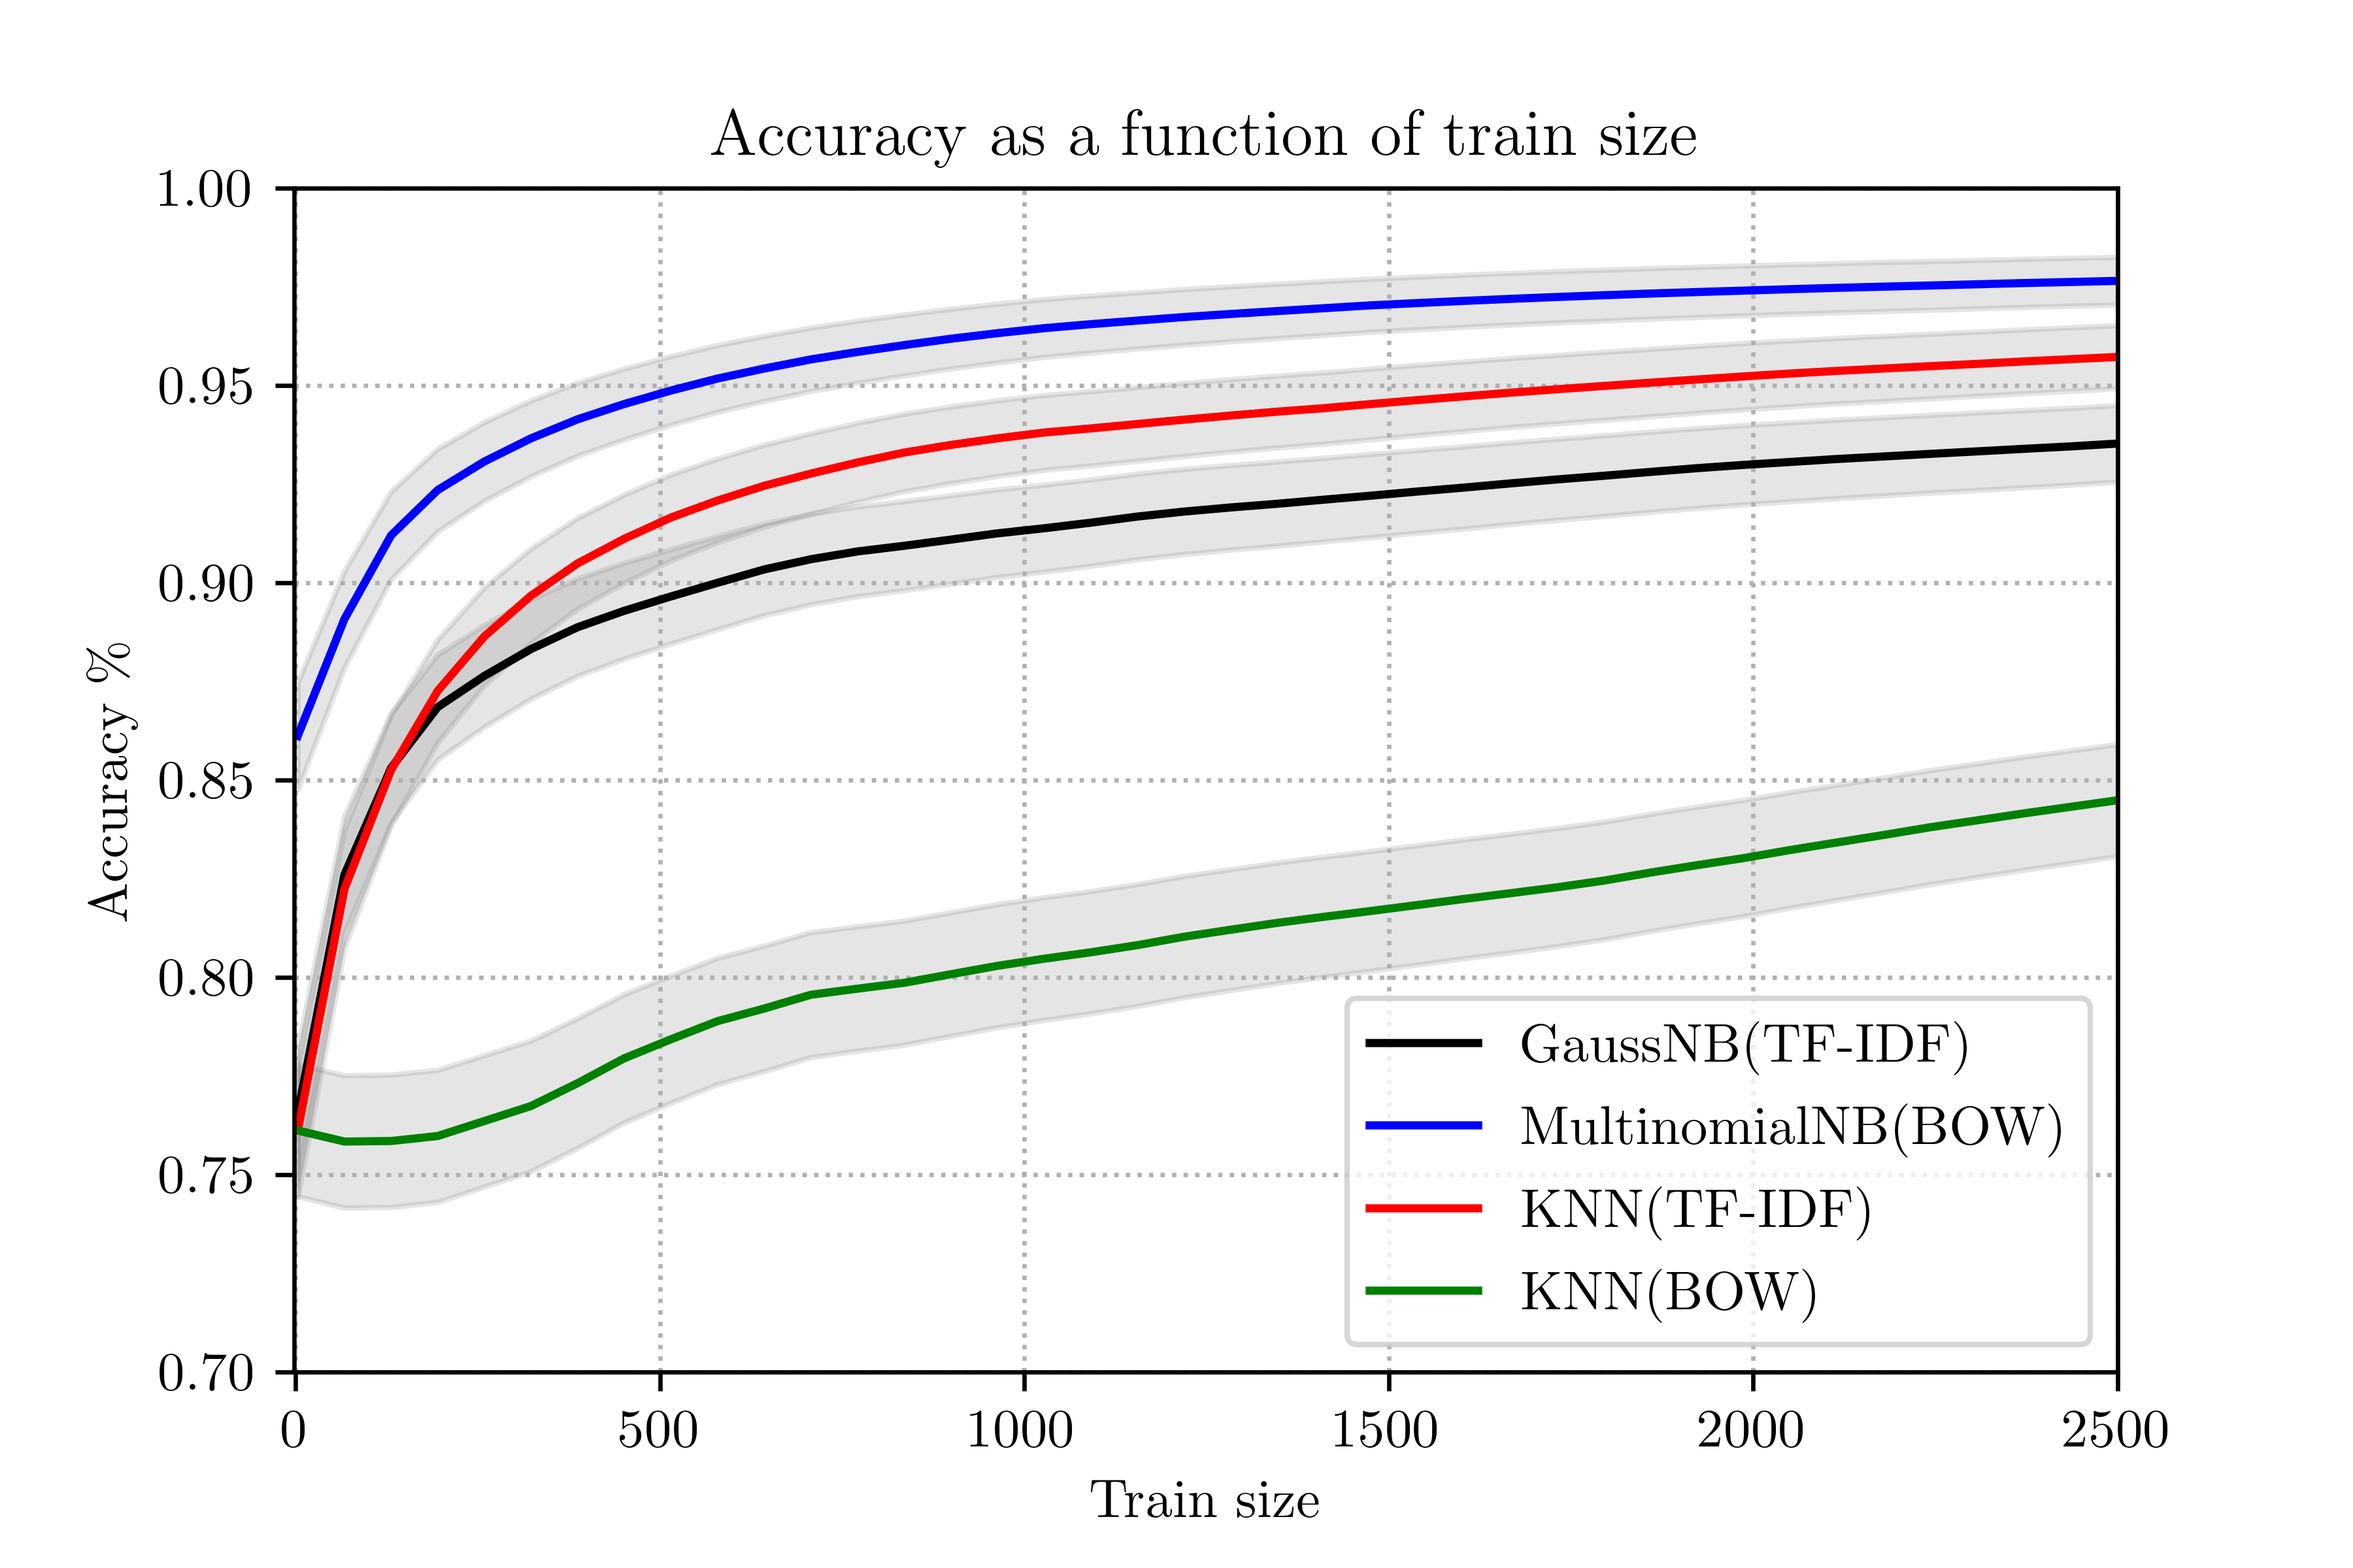
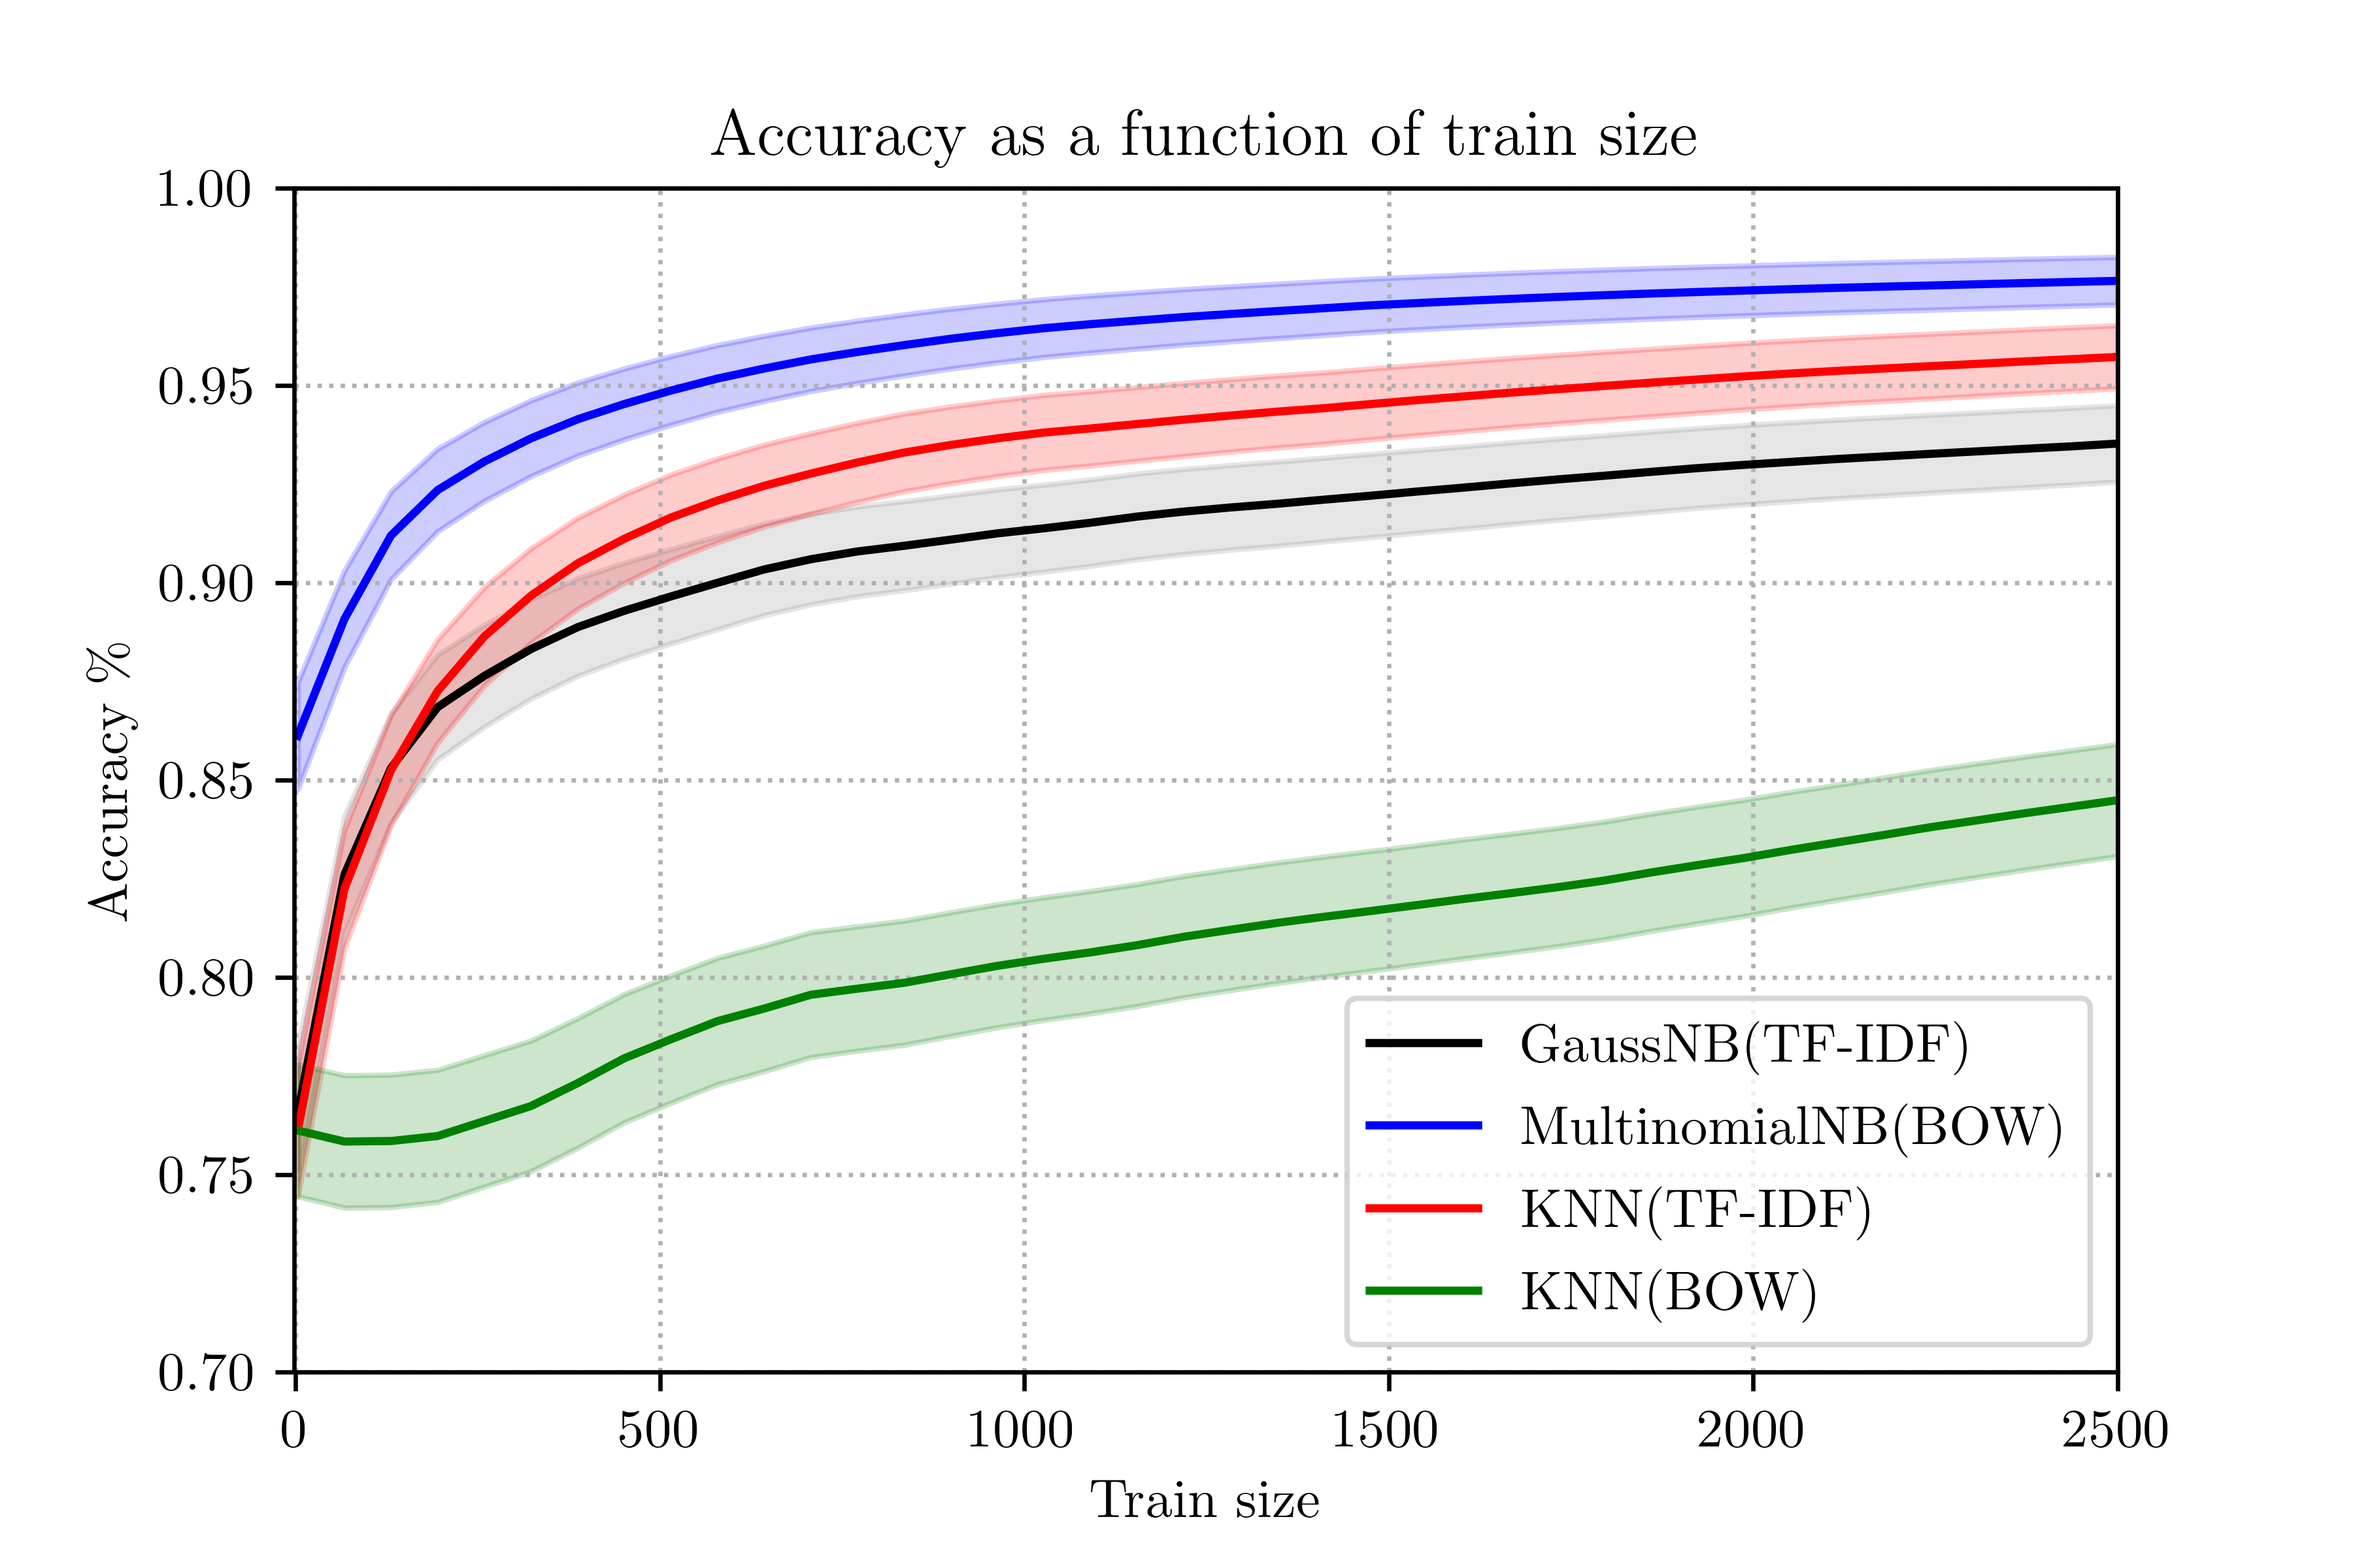
plot

Changed region(s): [[0.1244, 0.1562, 0.9022, 0.7812]]

diff --git a/plotte program acc - train size.py b/plotte program acc - train size.py
@@ -2,12 +2,6 @@
 import numpy as np
 import matplotlib.pyplot as plt
 
-# =============================================================================
-# x = np.array([   3,   67,  131,  195,  259,  323,  387,  451,  515,  579,  643,
-#         707,  771,  835,  899,  963, 1027, 1091, 1155, 1219, 1283, 1347,
-#        1411, 1475, 1539, 1603, 1667, 1731, 1795, 1859, 1923, 1987, 2051,
-#        2115, 2179, 2243, 2307, 2371, 2435, 2500])
-# =============================================================================
 n_samples = 40
 train_size_vect = np.linspace(3, 2500, n_samples, dtype = 'int32')
 model_param = train_size_vect
@@ -77,7 +71,6 @@ confint4 = np.array([0.01670958, 0.01677602, 0.01677288, 0.01674292, 0.01665184,
        0.01478442, 0.01472301, 0.01465219, 0.01458563, 0.01451902,
        0.01444912, 0.0143866 , 0.01432298, 0.01426207, 0.01419959])
 
-
 plt.figure()
 #1
 plt.fill_between(model_param, output1-confint1, output1+confint1,
@@ -85,18 +78,16 @@ plt.fill_between(model_param, output1-confint1, output1+confint1,
 plt.plot(model_param, output1, 'k', label = 'GaussNB(TF-IDF)')
 #2
 plt.fill_between(model_param, output2-confint2,output2+confint2,
-                 color = 'gray',alpha = 0.2)
+                 color = 'b',alpha = 0.2)
 plt.plot(model_param, output2, 'b', label = 'MultinomialNB(BOW)')
 #3
 plt.fill_between(model_param, output3-confint3,output3+confint3,
-                 color = 'gray',alpha = 0.2)
+                 color = 'r',alpha = 0.2)
 plt.plot(model_param, output3, 'r', label = 'KNN(TF-IDF)')
 #4
 plt.fill_between(model_param, output4-confint4,output4+confint4,
-                 color = 'gray',alpha = 0.2)
+                 color = 'g',alpha = 0.2)
 plt.plot(model_param, output4, 'g', label = 'KNN(BOW)')
-
-
 
 #use latex font for graph
 plt.rc('text', usetex=True)
